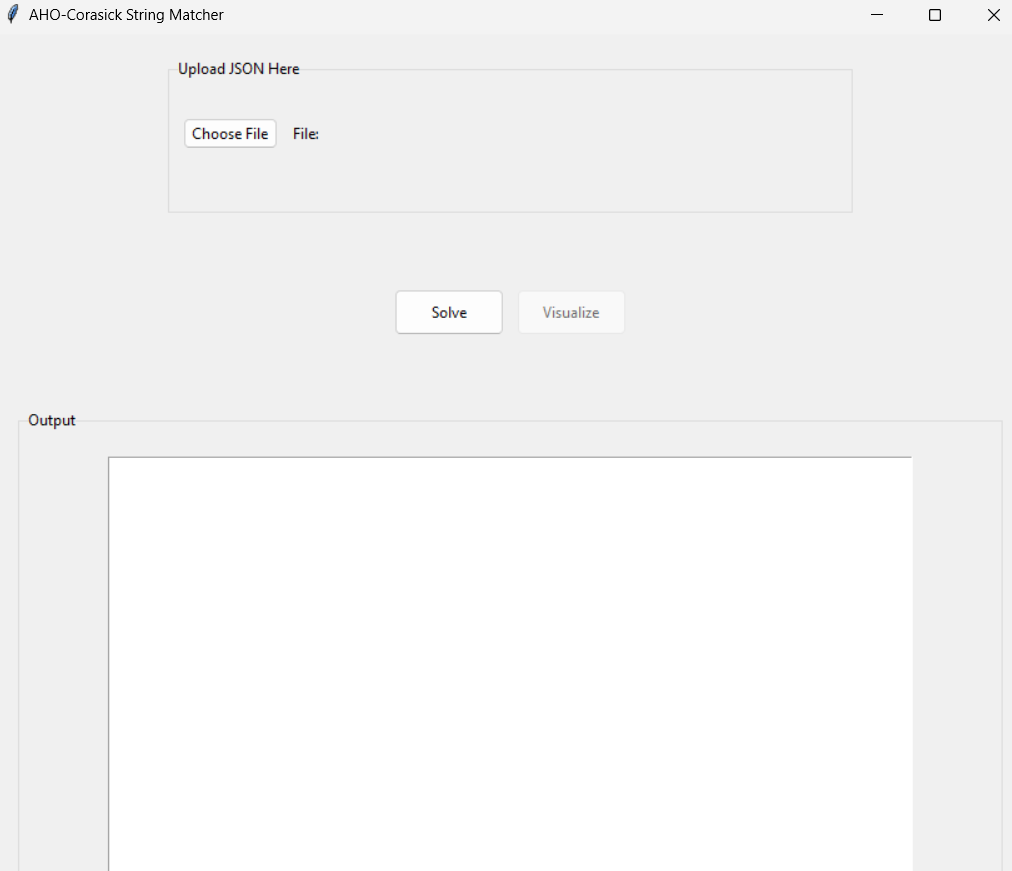
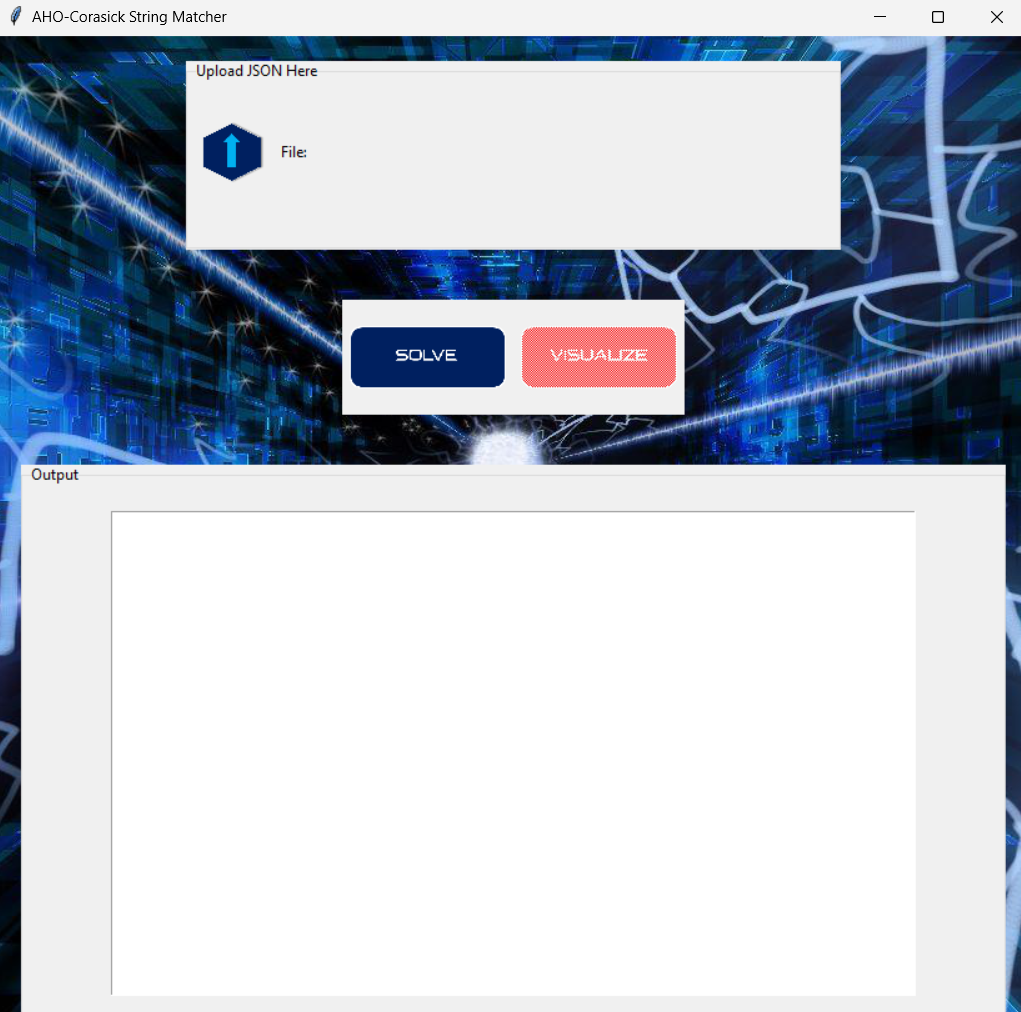
img: edits

diff --git a/src/GUI.py b/src/GUI.py
@@ -2,8 +2,10 @@ import tkinter as tk
 from tkinter import ttk
 from tkinter import filedialog
 from AHOCorasick import AHOCorasick
+from PIL import Image, ImageTk
 from typing import List
 from Canvas import LeGraph
+from tkinter import PhotoImage
 import os
 
 class MainPage:
@@ -17,6 +19,11 @@ class MainPage:
     file_path: str
     file_name: str
     file_label: ttk.Label
+    bg_label: ttk.Label
+    bg_image: PhotoImage
+    upload_image: ImageTk.PhotoImage
+    solve_image: ImageTk.PhotoImage
+    visualize_image: ImageTk.PhotoImage
     text_output: tk.Text
     solution_pack: AHOCorasick
     output_content: List[str]
@@ -25,9 +32,10 @@ class MainPage:
     def __init__ (self):
         self.root = tk.Tk()
         self.root.title("AHO-Corasick String Matcher")
-        self.root.geometry("825x675")
+        self.root.geometry("825x775")
         self.file_path = ""
         self.file_name = "File: "
+        self.create_background()
         self.construct_file_frm()
         self.construct_upload_button()
         self.construct_chosen_file()
@@ -40,6 +48,11 @@ class MainPage:
         self.output_content = []
         self.root.mainloop()
 
+    def create_background(self):
+        self.bg_image = PhotoImage(file='../img/bg.png')
+        self.bg_label = tk.Label(self.root, image=self.bg_image)
+        self.bg_label.place(relheight=1,relwidth=1)
+
     def construct_file_frm(self):
         self.file_frm = ttk.LabelFrame(self.root, padding=10, text="Upload JSON Here")
         self.file_frm.grid(row=0, column=0, padx=0, pady=20, ipadx=200, ipady=10)
@@ -49,7 +62,10 @@ class MainPage:
         self.output_frm.grid(row=2, column=0, padx=20, pady=20, ipadx=50)
 
     def construct_upload_button(self):
-        self.upload_button = ttk.Button(self.file_frm, text="Choose File", command=self.process_file)
+        upload_image = Image.open('../img/upload.png')
+        upload_image = upload_image.resize((50,50))
+        self.upload_image = ImageTk.PhotoImage(upload_image)
+        self.upload_button = tk.Button(self.file_frm, text="Choose File", command=self.process_file, image=self.upload_image, borderwidth=0)
         self.upload_button.grid(row=0, column=0, pady=20)
 
     def construct_chosen_file(self):
@@ -61,11 +77,17 @@ class MainPage:
         self.button_frm.grid(row=1, column=0, pady=20)
 
     def construct_solve_button(self):
-        self.solve_button = ttk.Button(self.button_frm, text="Solve", command=self.solve_file,padding=7)
+        solve_image = Image.open('../img/solve.png')
+        solve_image = solve_image.resize((125,50))
+        self.solve_image = ImageTk.PhotoImage(solve_image)
+        self.solve_button = tk.Button(self.button_frm, text="Solve", command=self.solve_file,image=self.solve_image,borderwidth=0)
         self.solve_button.pack(side="left", padx=5, pady=20)
 
     def construct_visualize_button(self):
-        self.visualize_button = ttk.Button(self.button_frm, text="Visualize", command=self.visualize_file,padding=7)
+        visualize_image = Image.open('../img/visu.png')
+        visualize_image = visualize_image.resize((125,50))
+        self.visualize_image = ImageTk.PhotoImage(visualize_image)
+        self.visualize_button = tk.Button(self.button_frm, text="Visualize", command=self.visualize_file,image=self.visualize_image,borderwidth=0)
         self.visualize_button.pack(side="left", padx=5, pady=20)
 
     def construct_text_output(self):
@@ -98,5 +120,3 @@ class MainPage:
     def visualize_file(self):
         LeGraph(self.solution_pack.to_graph)
 
-if __name__ == "__main__":
-    MainPage()
